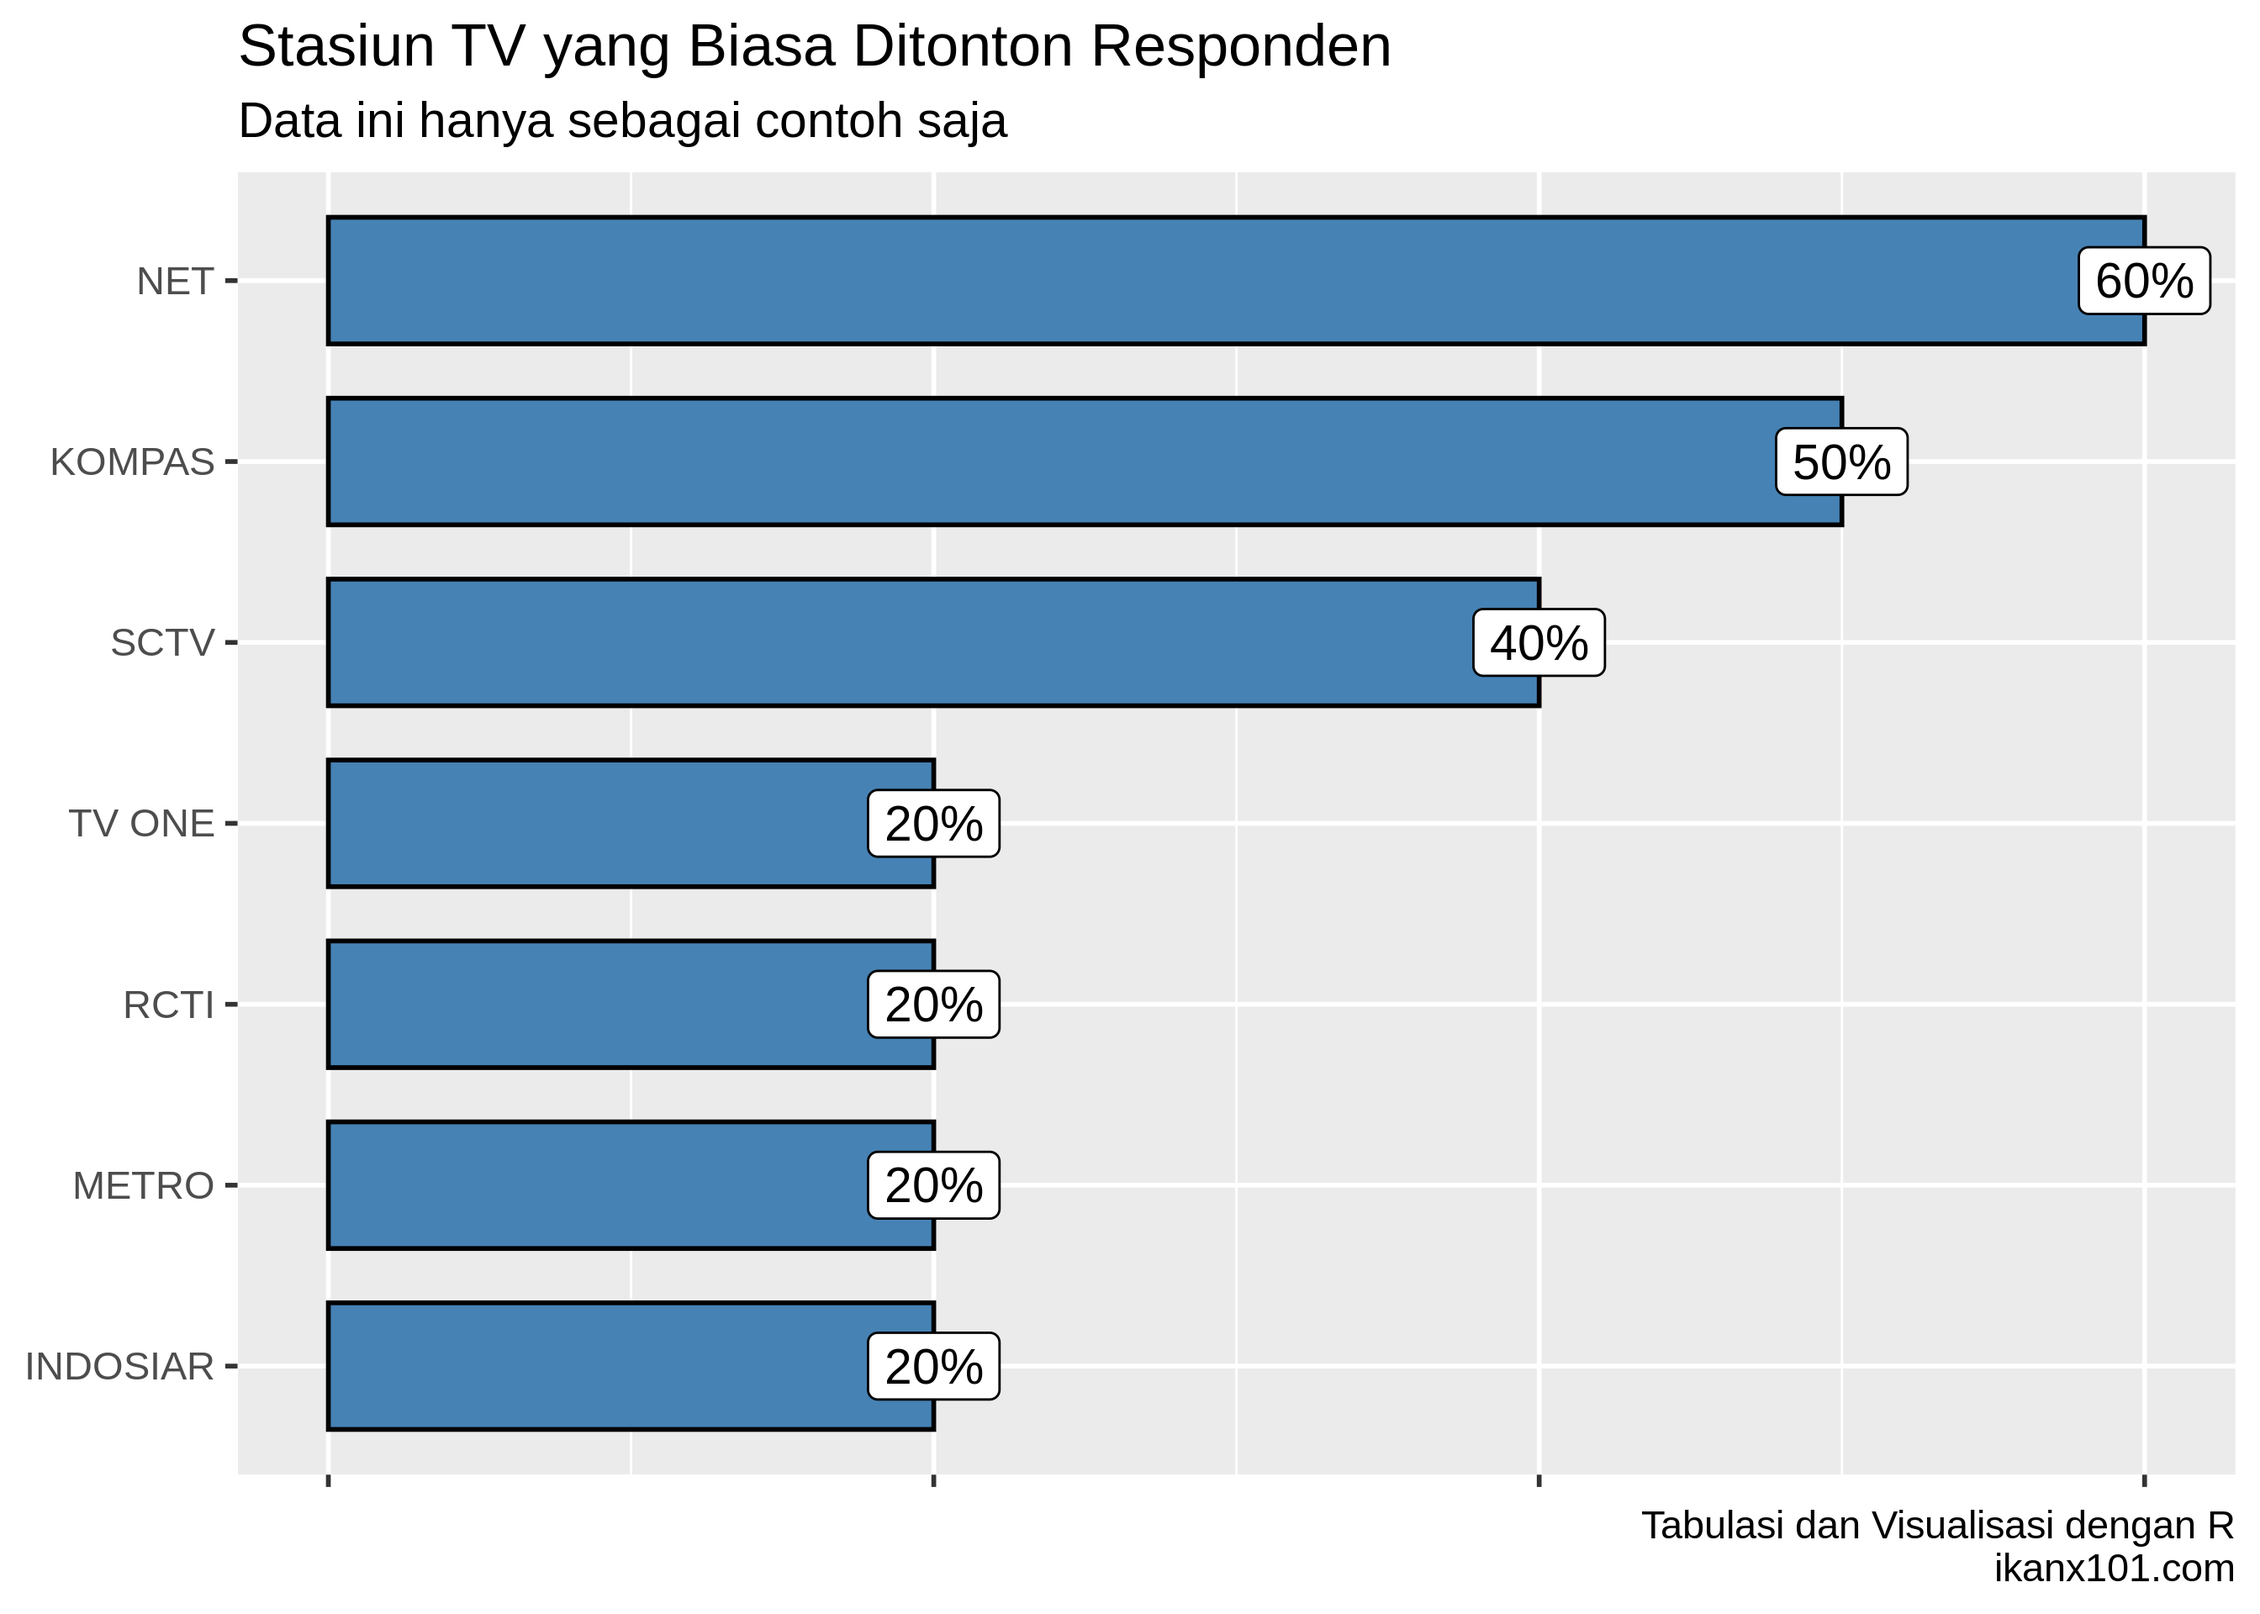
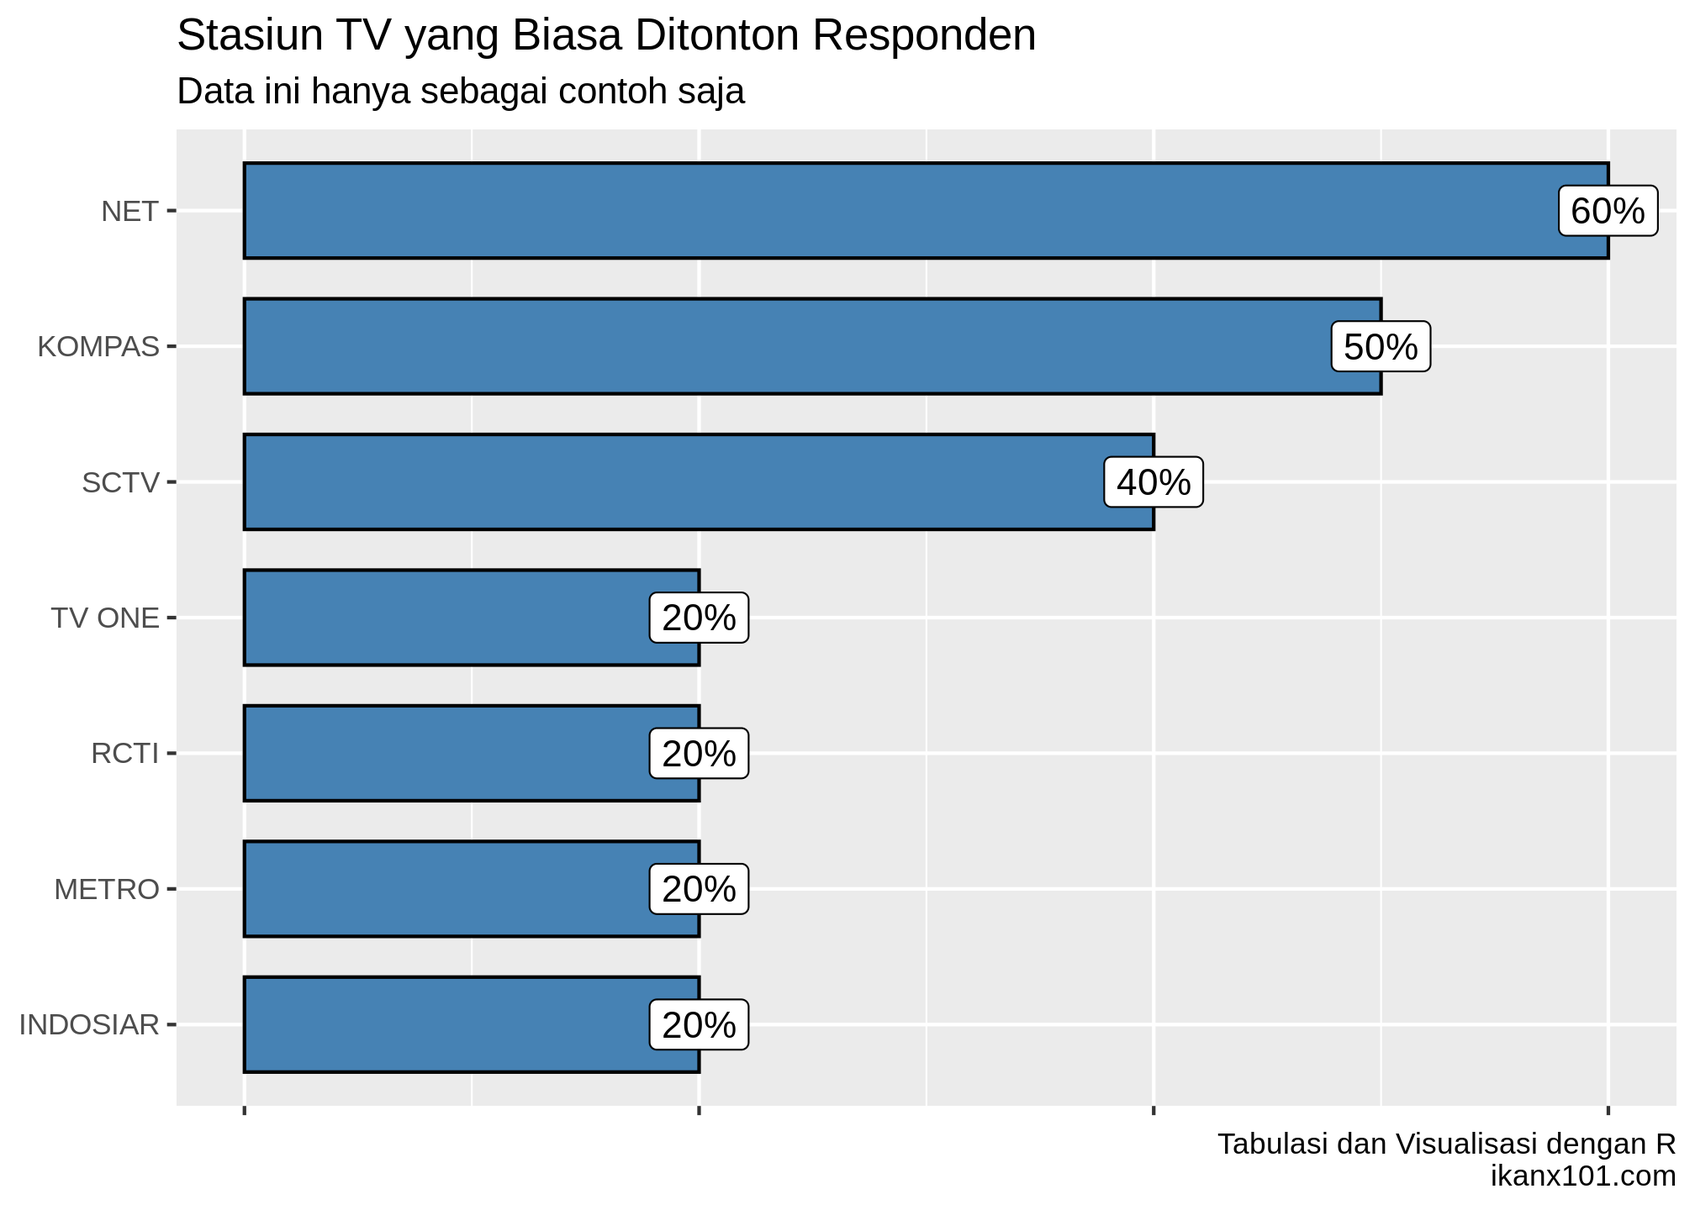
new

diff --git a/_posts/data carpentry/eugene/2020-06-28-separate-post.md b/_posts/data carpentry/eugene/2020-06-28-separate-post.md
@@ -1,5 +1,5 @@
 ---
-date: 2020-10-28T9:30:00-04:00
+date: 2020-06-28T9:30:00-04:00
 title: "Mengolah Data Survey Pertanyaan Multiple Responses dengan Tidyverse"
 categories:
   - Blog
@@ -158,7 +158,7 @@ df %>%
         axis.text.x = element_blank())
 ```
 
-<img src="https://raw.githubusercontent.com/ikanx101/ikanx101.github.io/master/_posts/data%20carpentry/eugene/separate-post_files/figure-gfm/unnamed-chunk-6-1.png" width="500" style="display: block; margin: auto;" />
+<img src="separate-post_files/figure-gfm/unnamed-chunk-6-1.png" width="672" style="display: block; margin: auto;" />
 
 ------------------------------------------------------------------------
 
